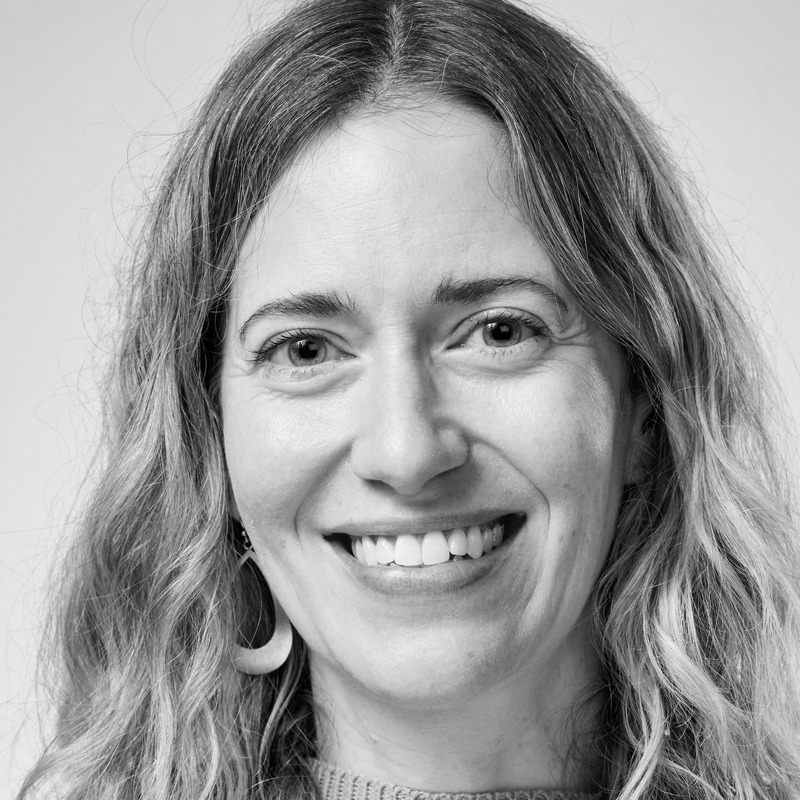
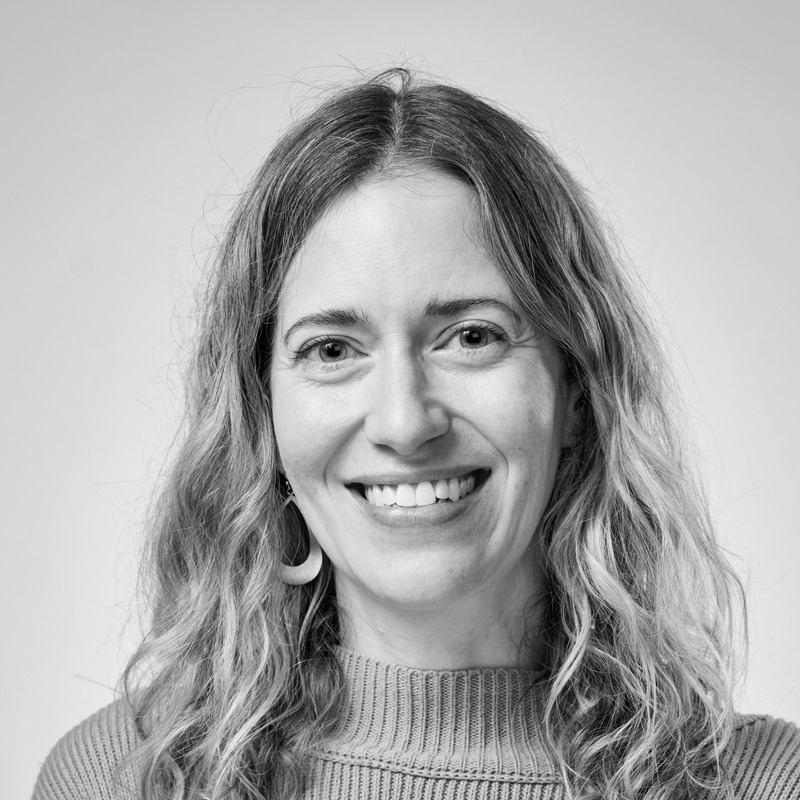
Re-crop Katie Stout's headshot with proper margin, was too tight

diff --git a/speakers/index.html b/speakers/index.html
@@ -388,7 +388,7 @@ class Component extends DCLogic {
       { name: 'Stephen Brent May', role: 'Founder, One Foot Over · Host, B2B Happy Hour Podcast', company: 'One Foot Over', track: 'b2b', sessionShort: 'B2B Panel Moderator', session: 'B2B Breakout Panel', slot: 'The Theatre', bio: 'Full bio coming soon.', photo: '../assets/speakers/Stephen_Brent_May.jpg' },
       { name: 'Hami Arrington', role: 'Co-Founder, One Foot Over · Host, B2B Happy Hour Podcast', company: 'One Foot Over', track: 'b2b', sessionShort: 'B2B Panel Moderator', session: 'B2B Breakout Panel', slot: 'The Theatre', bio: 'Full bio coming soon.', photo: '../assets/speakers/Hami_Arrington.jpg', pos: 'center 55%' },
       { name: 'Colin Jeffries', role: 'Vice President, Marketing', company: 'Balance Health', track: 'b2c', sessionShort: 'B2C Panel Moderator', session: 'B2C Breakout Panel', slot: 'Barn Room', bio: 'Colin Jeffries is passionate about building high-functioning, collaborative teams where marketers bring their whole selves to work and actually have fun galvanizing the right audiences to action. Although he has worked in and consulted for a variety of verticals, Colin primarily focuses on healthcare marketing. As a result, he is a Hospital Marketing National Hall of Fame inductee, was named Chief Marketing Officer of the Year by the Cincinnati Business Courier, and has received numerous other honors, including a Cincinnati AMA Pinnacle Award!\n\nColin leads the marketing team at Guardian Recovery, a full-service mental health and addiction treatment program with locations in seven states. He serves in advisory roles for several growing organizations, speaks on the follies of modern marketing advice, and periodically moonlights as an adjunct professor of marketing at the University of Cincinnati.', photo: '../assets/speakers/Colin_Jeffries.jpg' },
-      { name: 'Katie Stout', role: 'Group Creative Director', company: 'CourtAvenue', track: 'b2c', sessionShort: 'B2C Panelist', session: 'B2C Breakout Panel', slot: 'Barn Room', bio: 'Katie strives to make the complex simple.\n\nShe’s a Group Creative Director (Copy and Content) at CourtAvenue, a fast-growing digital transformation and AI strategy agency. Katie leads copywriting and content strategy, and focuses on the future of app, web, and brand expression for AT&T.\n\nShe previously worked with REI, Microsoft, T-Mobile, Procter & Gamble, Ford, and Amazon Pay.\n\nKatie specializes in using AI-driven personalization to shape content that adapts to individual users without losing the human voice behind it. Beyond her client work, she mentors writers, reads like it’s going out of style, and plays outside with her husband, daughter, and their dog.', photo: '../assets/speakers/Katie_Stout.jpg' },
+      { name: 'Katie Stout', role: 'Group Creative Director', company: 'CourtAvenue', track: 'b2c', sessionShort: 'B2C Panelist', session: 'B2C Breakout Panel', slot: 'Barn Room', bio: 'Katie strives to make the complex simple.\n\nShe’s a Group Creative Director (Copy and Content) at CourtAvenue, a fast-growing digital transformation and AI strategy agency. Katie leads copywriting and content strategy, and focuses on the future of app, web, and brand expression for AT&T.\n\nShe previously worked with REI, Microsoft, T-Mobile, Procter & Gamble, Ford, and Amazon Pay.\n\nKatie specializes in using AI-driven personalization to shape content that adapts to individual users without losing the human voice behind it. Beyond her client work, she mentors writers, reads like it’s going out of style, and plays outside with her husband, daughter, and their dog.', photo: '../assets/speakers/Katie_Stout.jpg', pos: 'center 25%' },
       { name: 'Ashley Neel', role: 'Head of Activation', company: 'Curiosity', track: 'b2c', sessionShort: 'B2C Panelist', session: 'B2C Breakout Panel', slot: 'Barn Room', bio: 'Heading up the Activation Department at Curiosity, Ashley Neel brings brand stories to life by approaching projects from both creative and analytical perspectives. With over 20 years of experience under her belt, Ashley’s proven track record of getting campaigns noticed stems from her understanding of highly-technical ecosystems and the artful side of brand storytelling.', photo: '../assets/speakers/Ashley_Neel.jpg', pos: 'center 12%' },
       { name: 'Brad Prenger', role: 'Senior Sales Manager', company: 'Snap Inc.', track: 'b2c', sessionShort: 'B2C Panelist', session: 'B2C Breakout Panel', slot: 'Barn Room', bio: 'Brad Prenger is a Senior Sales Manager at Snap Inc. and a 20-year veteran of the media and technology industry, with experience spanning global technology leaders like Google to high-growth startups and emerging companies. Throughout his career, Brad has partnered with some of the world’s largest brands, helping them navigate transformation, accelerate growth and build stronger connections with consumers. He is passionate about building high-performing teams, challenging conventional thinking and creating partnerships that drive meaningful business impact.\n\nA proud University of Cincinnati Bearcat with deep Cincinnati roots, Brad is a husband and father of three. Outside of work, you’ll most often find him cheering on his kids from the sidelines, spending time with family at the lake, or sneaking out for some fishing time whenever he gets the chance.', photo: '../assets/speakers/Brad_Prenger.jpg', pos: 'center 10%' },
       { name: 'Brian McHale', role: 'Chief Executive Officer', company: 'Brandience', track: 'b2c', sessionShort: 'B2C Panelist', session: 'B2C Breakout Panel', slot: 'Barn Room', bio: 'Brian McHale is CEO and Owner of Brandience, a Cincinnati marketing agency he’s built over two decades into an award-winning shop known for long-term client relationships and strategic creative, with clients including TriHealth, Skyline Chili, Papa John’s, and The Kroger Co. Before Brandience, he was President and Partner at Empower Media Marketing, and has made a career of helping regional brands grow into super-regional and national players.\n\nA frequent voice on entrepreneurship, agency operations, and generative AI, Brian has spoken at events including the Houston AMA’s Marketing Edge and FoodFluence Berlin, and headlined the national Food & Nutrition Conference and Expo in 2025. He was named an Ad Age Media Maven and a Cincinnati Business Courier “40 Under 40,” and serves on the boards of the Greater Cincinnati Sports Corporation and Cancer Support Community of Greater Cincinnati.', photo: '../assets/speakers/Brian_McHale.jpg', pos: 'center 20%' },

diff --git a/agenda/index.html b/agenda/index.html
@@ -333,7 +333,7 @@ class Component extends DCLogic {
     const personalizeB2C = panel(
       [ { initial: 'TJ', name: 'Tom Jones', title: 'Dir. Content, Brand & Digital, The WholeJonesGroup', roleLabel: 'IGNITE Emcee', color: C[1], photo: '../assets/speakers/Tom_Jones.jpg', pos: 'center 25%' }, colinJeffries ],
       [ { initial: 'BK', name: 'Bourke Kelley', title: 'Chief Strategy Officer, Court Avenue', color: C[0], photo: '../assets/speakers/Bourke_Kelley.jpg', pos: 'center top' },
-        { initial: 'KS', name: 'Katie Stout', title: 'Group Creative Director, CourtAvenue', color: C[3], photo: '../assets/speakers/Katie_Stout.jpg', pos: 'center top' },
+        { initial: 'KS', name: 'Katie Stout', title: 'Group Creative Director, CourtAvenue', color: C[3], photo: '../assets/speakers/Katie_Stout.jpg', pos: 'center 25%' },
         { initial: 'AN', name: 'Ashley Neel', title: 'Head of Activation, Curiosity', color: C[3], photo: '../assets/speakers/Ashley_Neel.jpg', pos: 'center 12%' } ]);
     const b2bModerators = [
       { initial: 'SM', name: 'Stephen Brent May', title: 'Founder, One Foot Over', color: C[1], photo: '../assets/speakers/Stephen_Brent_May.jpg', pos: 'center top' },
